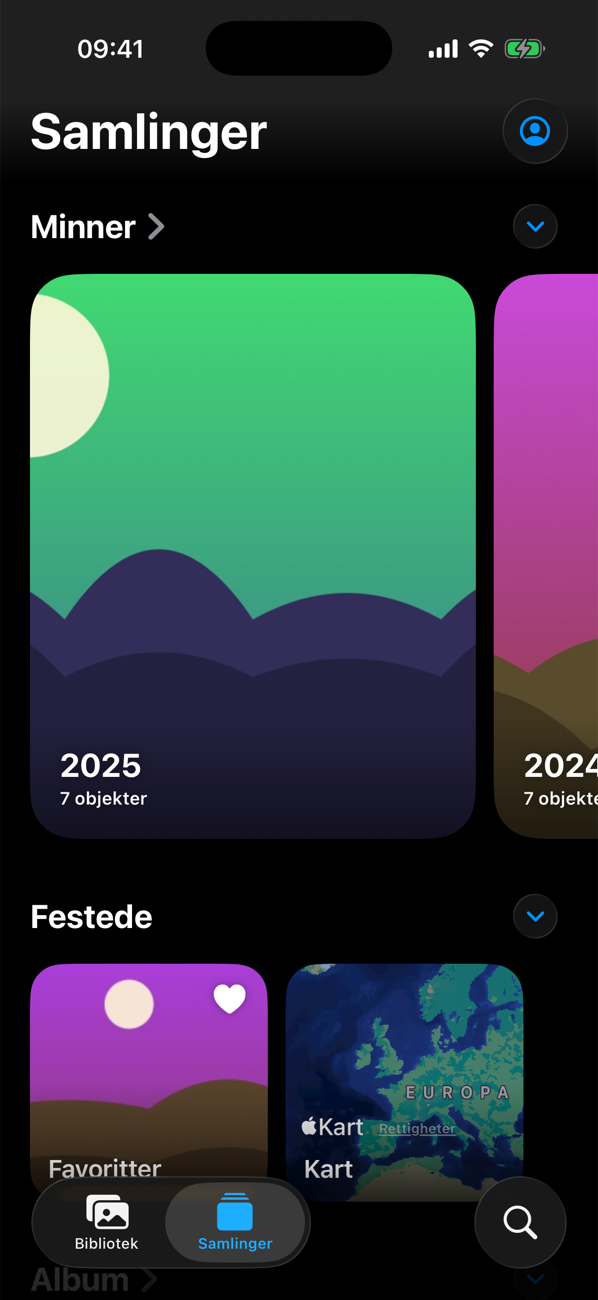
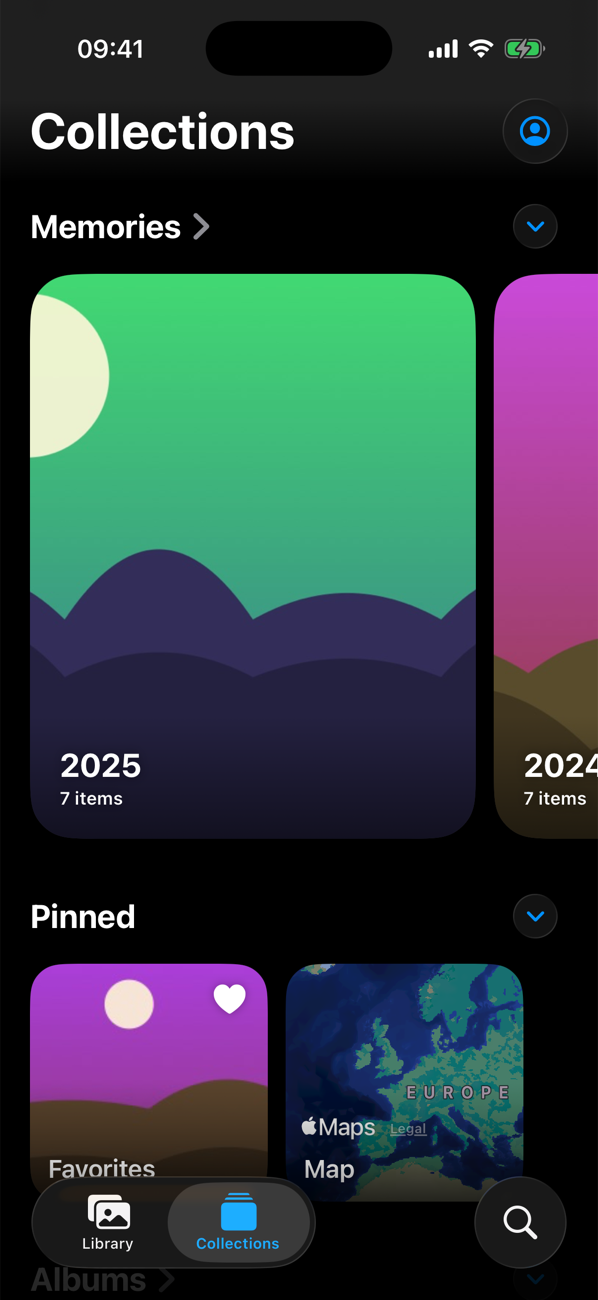
Show the README screenshots in English
The repository is public and its README is in English, so the
screenshots now show the app in English (launched with
-AppleLanguages (en) in the Debug demo mode) instead of Norwegian.

diff --git a/README.md b/README.md
@@ -99,7 +99,8 @@ ImmichRootView(service: MockImmichService.preview)
 
 This root initializer uses an in-memory session and does not read the real Keychain. In Debug
 builds the app can also start in this demo mode with the launch argument `-BloomDemo` (and
-`-BloomDemoTab collections|search`); that is how the README screenshots are taken. Release builds ignore it. The deterministic mock has hundreds of generated photos, albums, people and metadata. Its search uses word matching rather than CLIP, and mock videos show a placeholder because they have no playable media.
+`-BloomDemoTab collections|search`); the README screenshots are taken that way, in English with
+`-AppleLanguages (en)`. Release builds ignore it. The deterministic mock has hundreds of generated photos, albums, people and metadata. Its search uses word matching rather than CLIP, and mock videos show a placeholder because they have no playable media.
 
 ## Run all three checks
 
